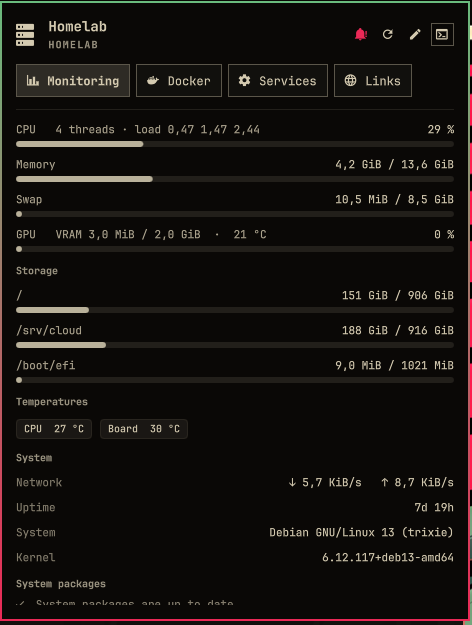
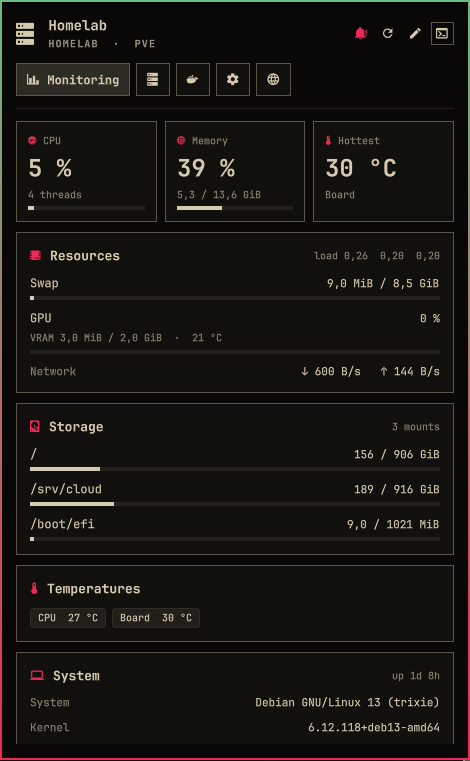
Release 1.3.0: new screenshots, version bump
Previews taken on demo data. Manifest lists the new services.

Changed region(s): [[0.0, 0.0, 1.0, 1.0], [0.5957, 0.76, 0.7745, 0.7904]]

diff --git a/README.fr.md b/README.fr.md
@@ -4,6 +4,13 @@
 
 <p align="center"><img src="preview.png" alt="Panel Homelab : onglet Monitoring" width="420"></p>
 
+<p align="center">
+  <img src="docs/docker.png" alt="Onglet Docker" width="200">
+  <img src="docs/proxmox.png" alt="Onglet Proxmox" width="200">
+  <img src="docs/home-assistant.png" alt="Service Home Assistant avec couleurs RGB" width="200">
+  <img src="docs/qbittorrent.png" alt="Service qBittorrent" width="200">
+</p>
+
 Un widget de barre pour le shell d'[Omarchy](https://omarchy.org) qui surveille
 vos serveurs homelab en SSH : rien à installer sur le serveur.
 

diff --git a/README.md b/README.md
@@ -4,6 +4,13 @@
 
 <p align="center"><img src="preview.png" alt="Homelab panel: monitoring tab" width="420"></p>
 
+<p align="center">
+  <img src="docs/docker.png" alt="Docker tab" width="200">
+  <img src="docs/proxmox.png" alt="Proxmox tab" width="200">
+  <img src="docs/home-assistant.png" alt="Home Assistant service with RGB colors" width="200">
+  <img src="docs/qbittorrent.png" alt="qBittorrent service" width="200">
+</p>
+
 A bar widget for the [Omarchy](https://omarchy.org) shell that keeps an eye on
 your homelab hosts over plain SSH: nothing to install on the server.
 
